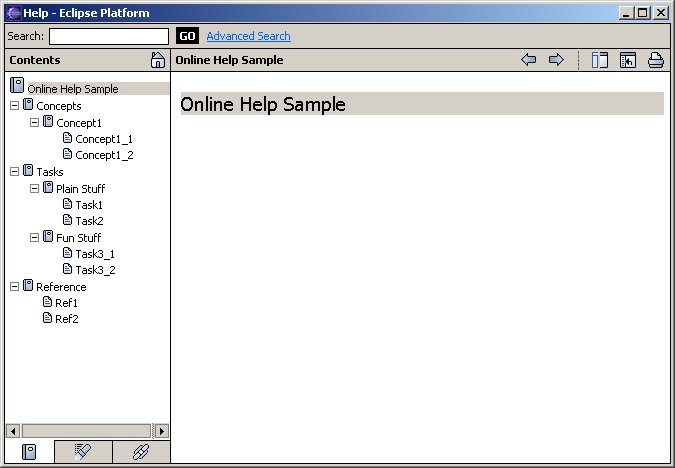
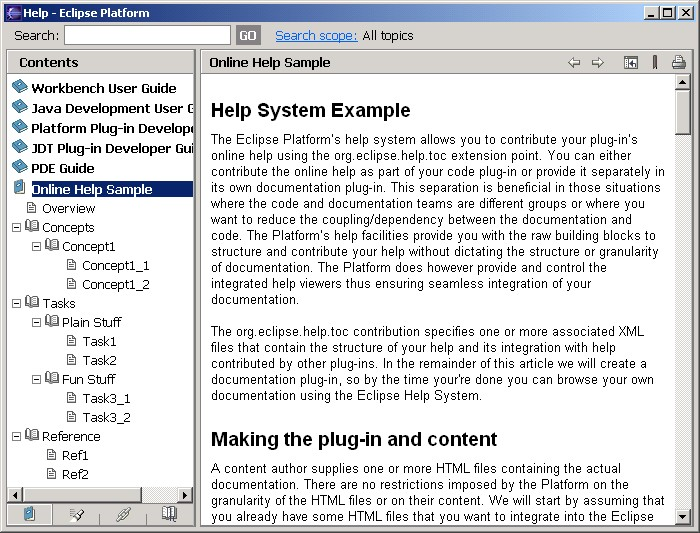
update help documentation plugin

diff --git a/bundles/org.eclipse.platform.doc.isv/guide/help_plugin_manifest.htm b/bundles/org.eclipse.platform.doc.isv/guide/help_plugin_manifest.htm
@@ -23,7 +23,7 @@ update our <b> plugin.xml</b> to actually contribute the master toc.&nbsp; </P>
  initially.&nbsp; Instead of providing an <b>href</b> for each topic, we use the
  <b>link</b> attribute to refer to our existing toc files. </P>
 
-<font color='#4444CC'><pre>&lt;toc label=&quot;Online Help Sample&quot;&gt;
+<font color='#4444CC'><pre>&lt;toc label=&quot;Online Help Sample&quot; topic=&quot;html/book.html&quot;&gt;
 	&lt;topic label=&quot;Concepts&quot;&gt;
 		&lt;link toc=&quot;toc_Concepts.xml&quot; /&gt;
 	&lt;/topic&gt;
@@ -46,7 +46,9 @@ update our <b> plugin.xml</b> to actually contribute the master toc.&nbsp; </P>
 to true indicates that the toc should always appear in the navigation, even if
 it is not referenced by any other toc.&nbsp; This way, our &quot;master&quot;
 toc is always guaranteed to show up in the topics list.&nbsp; It appears at the
-top level list of books since no other toc references it.&nbsp;&nbsp; </P>
+top level list of books since no other toc references it.&nbsp;<I><BR>
+Note</I>: 
+If more files were associated with this toc but not present in the navigation, but just linked from other topics, then to have those topics available to the search engine we would have to use the <B>extradir</B> attribute in the toc.</P>
 <P >Finally, we contribute our individual toc files. </P>
 <font color='#4444CC'><pre>   &lt;extension point=&quot;org.eclipse.help.toc&quot;&gt;
        &lt;toc file=&quot;toc_Concepts.xml&quot; /&gt;
@@ -61,14 +63,10 @@ toc. </P>
 
 <P >That's it. If you copy your plug-in directory to the platform's <b> plugins</b> directory, start the platform, and choose
 <b> Help-&gt;Help Contents</b>, you should see your example appear in the list
-of books: </P>
+of books. If you click on the "Online Help Sample", you'll see your toc structure:</P>
 
-<P ><img border="0" src="images/help_books.jpg" alt="List of books with example entry" width="227" height="220"> </P>
-
-<p>&nbsp;</p>
-<p>If you click on the &quot;Online Help Sample&quot;, you'll see your toc
-structure.</p>
-<p><img border="0" src="images/help_contents.jpg" alt="On-line help browser with sample book structure" width="675" height="468"></p>
+<p></p>
+<p><img border="0" src="images/help_contents.jpg" alt="On-line help browser with sample book structure" width="700" height="533"></p>
 
 <p><a href="../hglegal.htm"><img border="0" src="../ngibmcpy.gif" alt="Copyright IBM Corp. and others 2000,2002."width="250" height="12"></a></p>
 

diff --git a/bundles/org.eclipse.platform.doc.isv/guide/help_plugin_toc.htm b/bundles/org.eclipse.platform.doc.isv/guide/help_plugin_toc.htm
@@ -37,9 +37,9 @@ Our files look like this:</P>
 <H4>toc_Concepts.xml</H4>
 <font color='#4444CC'><pre>
    &lt;toc label=&quot;Concepts&quot;&gt;
-      &lt;topic label=&quot;Concept1&quot; href=&quot;doc/concepts/concept1.html&quot;&gt;
-         &lt;topic label=&quot;Concept1_1&quot; href=&quot;doc/concepts/concept1_1.html&quot;/&gt;
-         &lt;topic label=&quot;Concept1_2&quot; href=&quot;doc/concepts/concept1_2.html&quot;/&gt;
+      &lt;topic label=&quot;Concept1&quot; href=&quot;html/concepts/concept1.html&quot;&gt;
+         &lt;topic label=&quot;Concept1_1&quot; href=&quot;html/concepts/concept1_1.html&quot;/&gt;
+         &lt;topic label=&quot;Concept1_2&quot; href=&quot;html/concepts/concept1_2.html&quot;/&gt;
       &lt;/topic&gt; 
    &lt;/toc&gt;
 </pre></font>
@@ -49,12 +49,12 @@ toc_Tasks.xml</H4>
 <font color='#4444CC'><pre>
    &lt;toc label=&quot;Tasks&quot;&gt;
       &lt;topic id=&quot;plainTasks&quot; label=&quot;Plain Stuff&quot;&gt;
-         &lt;topic label=&quot;Task1&quot; href=&quot;doc/tasks/task1.html&quot;/&gt;
-         &lt;topic label=&quot;Task2&quot; href=&quot;doc/tasks/task2.html&quot;/&gt;
+         &lt;topic label=&quot;Task1&quot; href=&quot;html/tasks/task1.html&quot;/&gt;
+         &lt;topic label=&quot;Task2&quot; href=&quot;html/tasks/task2.html&quot;/&gt;
       &lt;/topic&gt;
       &lt;topic id=&quot;funTasks&quot; label=&quot;Fun Stuff&quot; &gt;
-         &lt;topic label=&quot;Task3_1&quot; href=&quot;doc/tasks/task3_1.html&quot;/&gt;
-         &lt;topic label=&quot;Task3_2&quot; href=&quot;doc/tasks/task3_2.html&quot;/&gt;
+         &lt;topic label=&quot;Task3_1&quot; href=&quot;html/tasks/task3_1.html&quot;/&gt;
+         &lt;topic label=&quot;Task3_2&quot; href=&quot;html/tasks/task3_2.html&quot;/&gt;
       &lt;/topic&gt;
    &lt;/toc&gt;
 </pre></font>
@@ -63,8 +63,8 @@ toc_Tasks.xml</H4>
 toc_Ref.xml</H4>
 <font color='#4444CC'><pre>
    &lt;toc label=&quot;Reference&quot;&gt;
-      &lt;topic label=&quot;Ref1&quot; href=&quot;doc/ref/ref1.html&quot;/&gt;
-      &lt;topic label=&quot;Ref2&quot; href=&quot;doc/ref/ref2.html&quot;/&gt;
+      &lt;topic label=&quot;Ref1&quot; href=&quot;html/ref/ref1.html&quot;/&gt;
+      &lt;topic label=&quot;Ref2&quot; href=&quot;html/ref/ref2.html&quot;/&gt;
    &lt;/toc&gt;
 </pre></font>
 <P >

diff --git a/bundles/org.eclipse.platform.doc.isv/guide/help_plugin_files.htm b/bundles/org.eclipse.platform.doc.isv/guide/help_plugin_files.htm
@@ -19,26 +19,26 @@ main difference to you as a plug-in developer is that you have a little more
 flexibility in the way you structure your files and specify your links. </P>
 <P >
 Documentation can be delivered in a zip file, avoiding problems that may result when a large number of files are present. In our example
-plug-in, we created a subdirectory called <b>doc</b>.&nbsp;
+plug-in, we created a subdirectory called <b>html</b>.&nbsp;
 Alternatively, we could have placed our html files into a zip file called
 <b>doc.zip</b>.&nbsp; This zip file must mimic the file
 structure underneath the plug-in directory.&nbsp; In our case, it must contain
-the subdirectory <b>doc</b> and all the contents
-underneath <b>doc</b>.&nbsp; </P>
+the subdirectory <b>html</b> and all the contents
+underneath <b>html</b>.&nbsp; </P>
 <P >When resolving file names, the help server looks in the <b>doc.zip</b>
 file for documents before it looks in the plug-in directory itself.&nbsp; When used as a link, the argument in an
 <b> href</b> is assumed to be relative to the current plug-in.&nbsp; Consider the following link: </P>
 
 
-<pre ><font color='#4444CC'>   &lt;topic label=&quot;Ref1&quot; href=&quot;doc/ref/ref1.html&quot;/&gt;</font></pre>
+<pre ><font color='#4444CC'>   &lt;topic label=&quot;Ref1&quot; href=&quot;html/ref/ref1.html&quot;/&gt;</font></pre>
 
 
 <P >The help plug-in will look for this file as follows: </P>
 
 
 <ul>
-  <li>look in <b> doc.zip</b> for the file <b>/doc/ref/ref1.html</b></li>
-  <li>look for the file <b>ref1.html</b> in the <b>/doc/ref </b>subdirectory structure underneath the plug-in
+  <li>look in <b> doc.zip</b> for the file <b>/html/ref/ref1.html</b></li>
+  <li>look for the file <b>ref1.html</b> in the <b>/html/ref </b>subdirectory structure underneath the plug-in
     directory.</li>
 </ul>
 <P >A fully qualified link can be used to refer to any content on the web.&nbsp; </P>

diff --git a/bundles/org.eclipse.platform.doc.isv/guide/help_plugin_nested.htm b/bundles/org.eclipse.platform.doc.isv/guide/help_plugin_nested.htm
@@ -25,7 +25,7 @@ convenient method for breaking up known content into smaller pieces.&nbsp; With
 top-down nesting, the <b>link</b> attribute is used in the table of contents
 definition to refer to linked tocs rather than providing an <b>href</b>.&nbsp; </p>
 
-<font color='#4444CC'><pre>&lt;toc label=&quot;Online Help Sample&quot;&gt;
+<font color='#4444CC'><pre>&lt;toc label=&quot;Online Help Sample&quot; topic=&quot;html/book.html&quot;&gt;
 	&lt;topic label=&quot;Concepts&quot;&gt;
 		&lt;link toc=&quot;toc_Concepts.xml&quot; /&gt;
 	&lt;/topic&gt;
@@ -51,7 +51,7 @@ named anchor points where other plug-ins can contribute documentation.&nbsp; In
 our example, we could add anchors so that plug-ins can contribute additional
 material between the concepts, tasks, and reference sections.</p>
 
-<font color='#4444CC'><pre>&lt;toc label=&quot;Online Help Sample&quot;&gt;
+<font color='#4444CC'><pre>&lt;toc label=&quot;Online Help Sample&quot; topic=&quot;html/book.html&quot;&gt;
 	&lt;topic label=&quot;Concepts&quot;&gt;
 		&lt;link toc=&quot;toc_Concepts.xml&quot; /&gt;
 		&lt;<b>anchor</b> id=&quot;postConcepts&quot; /&gt;

diff --git a/bundles/org.eclipse.platform.doc.isv/guide/help_active_debug.htm b/bundles/org.eclipse.platform.doc.isv/guide/help_active_debug.htm
@@ -28,7 +28,7 @@ that the action is error-free before invoking it from the JavaScript.&nbsp; </p>
 <h4>Ensure the JavaScript is running</h4>
 
 
-<p>You can modify &quot;plugins/org.eclipse.help_2.0.0/<b>liveHelp.js</b>&quot;
+<p>You can modify &quot;plugins/org.eclipse.help_2.1.0/<b>liveHelp.js</b>&quot;
 to include a call to the <b>alert</b> function as the first statement in the <b>liveAction</b>
 function:</p>
 

diff --git a/bundles/org.eclipse.platform.doc.isv/guide/help_plugin.htm b/bundles/org.eclipse.platform.doc.isv/guide/help_plugin.htm
@@ -20,7 +20,7 @@ and structure of these files is completely up to the documentation team. Once th
 <P >
 We start by assuming that the documentation has already been provided in the following tree.</P>
 <font color='#4444CC'><pre>
-   doc/
+   html/
       concepts/
          concept1.html
          concept1_1.html
